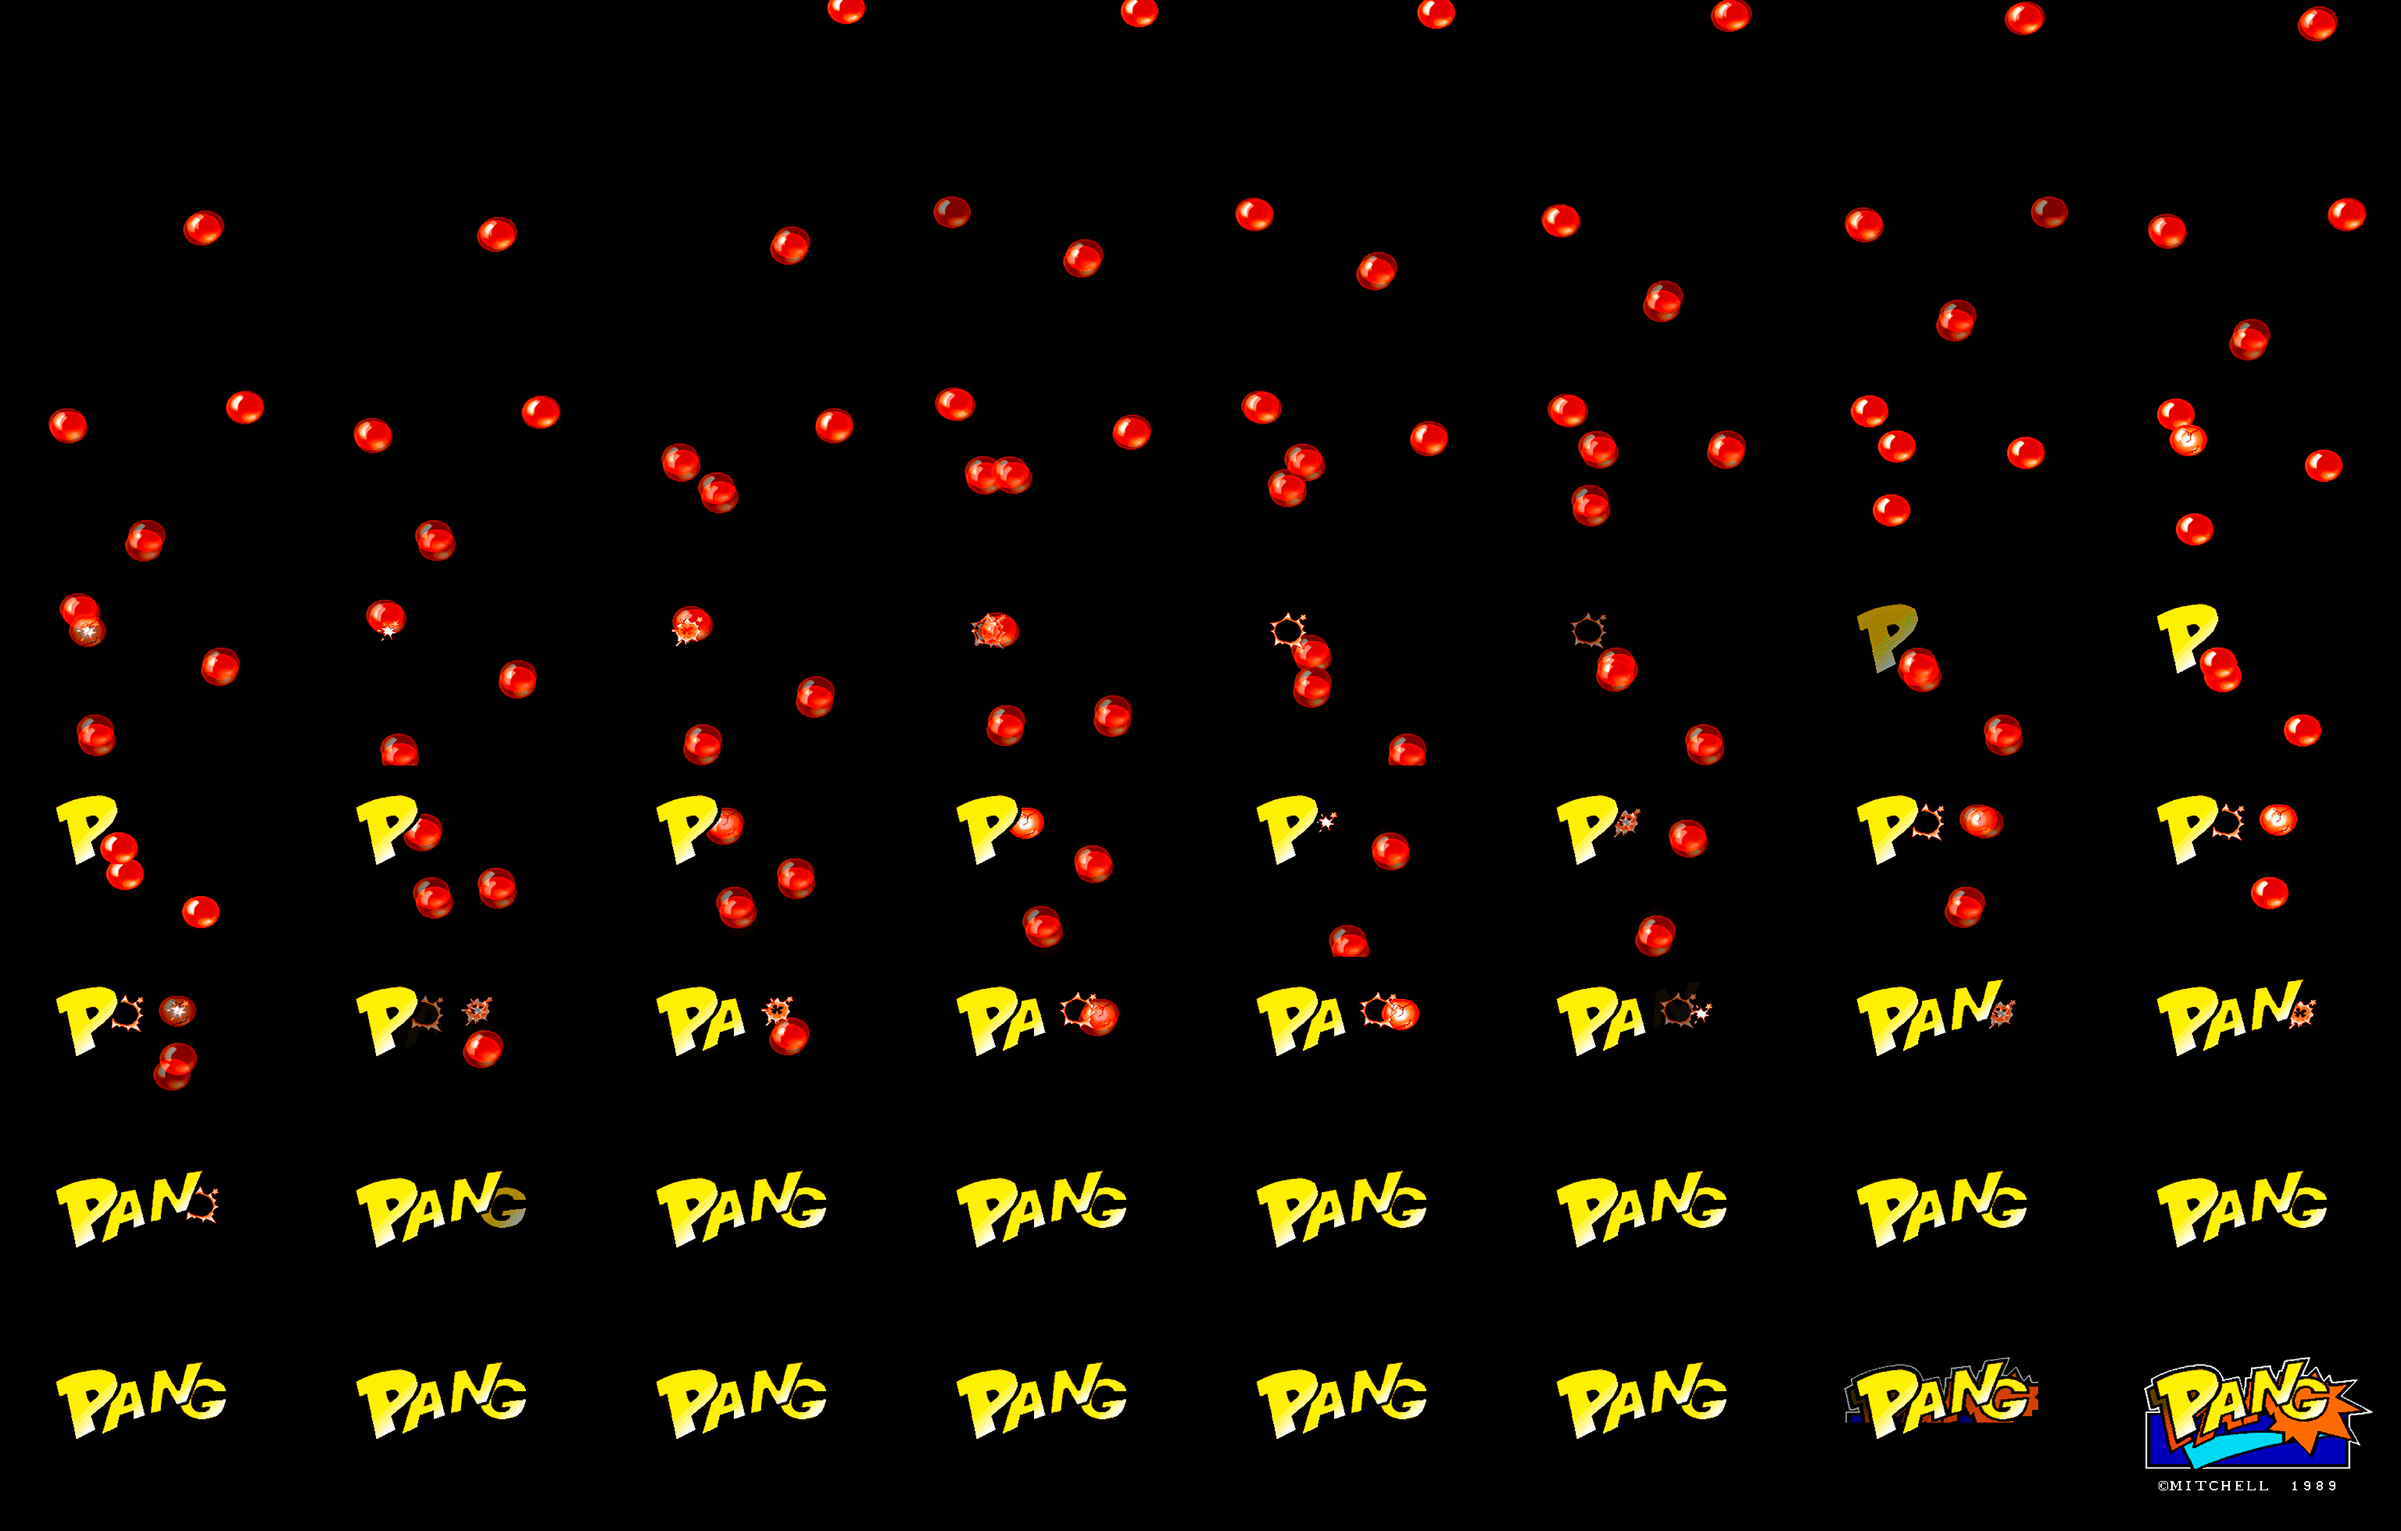
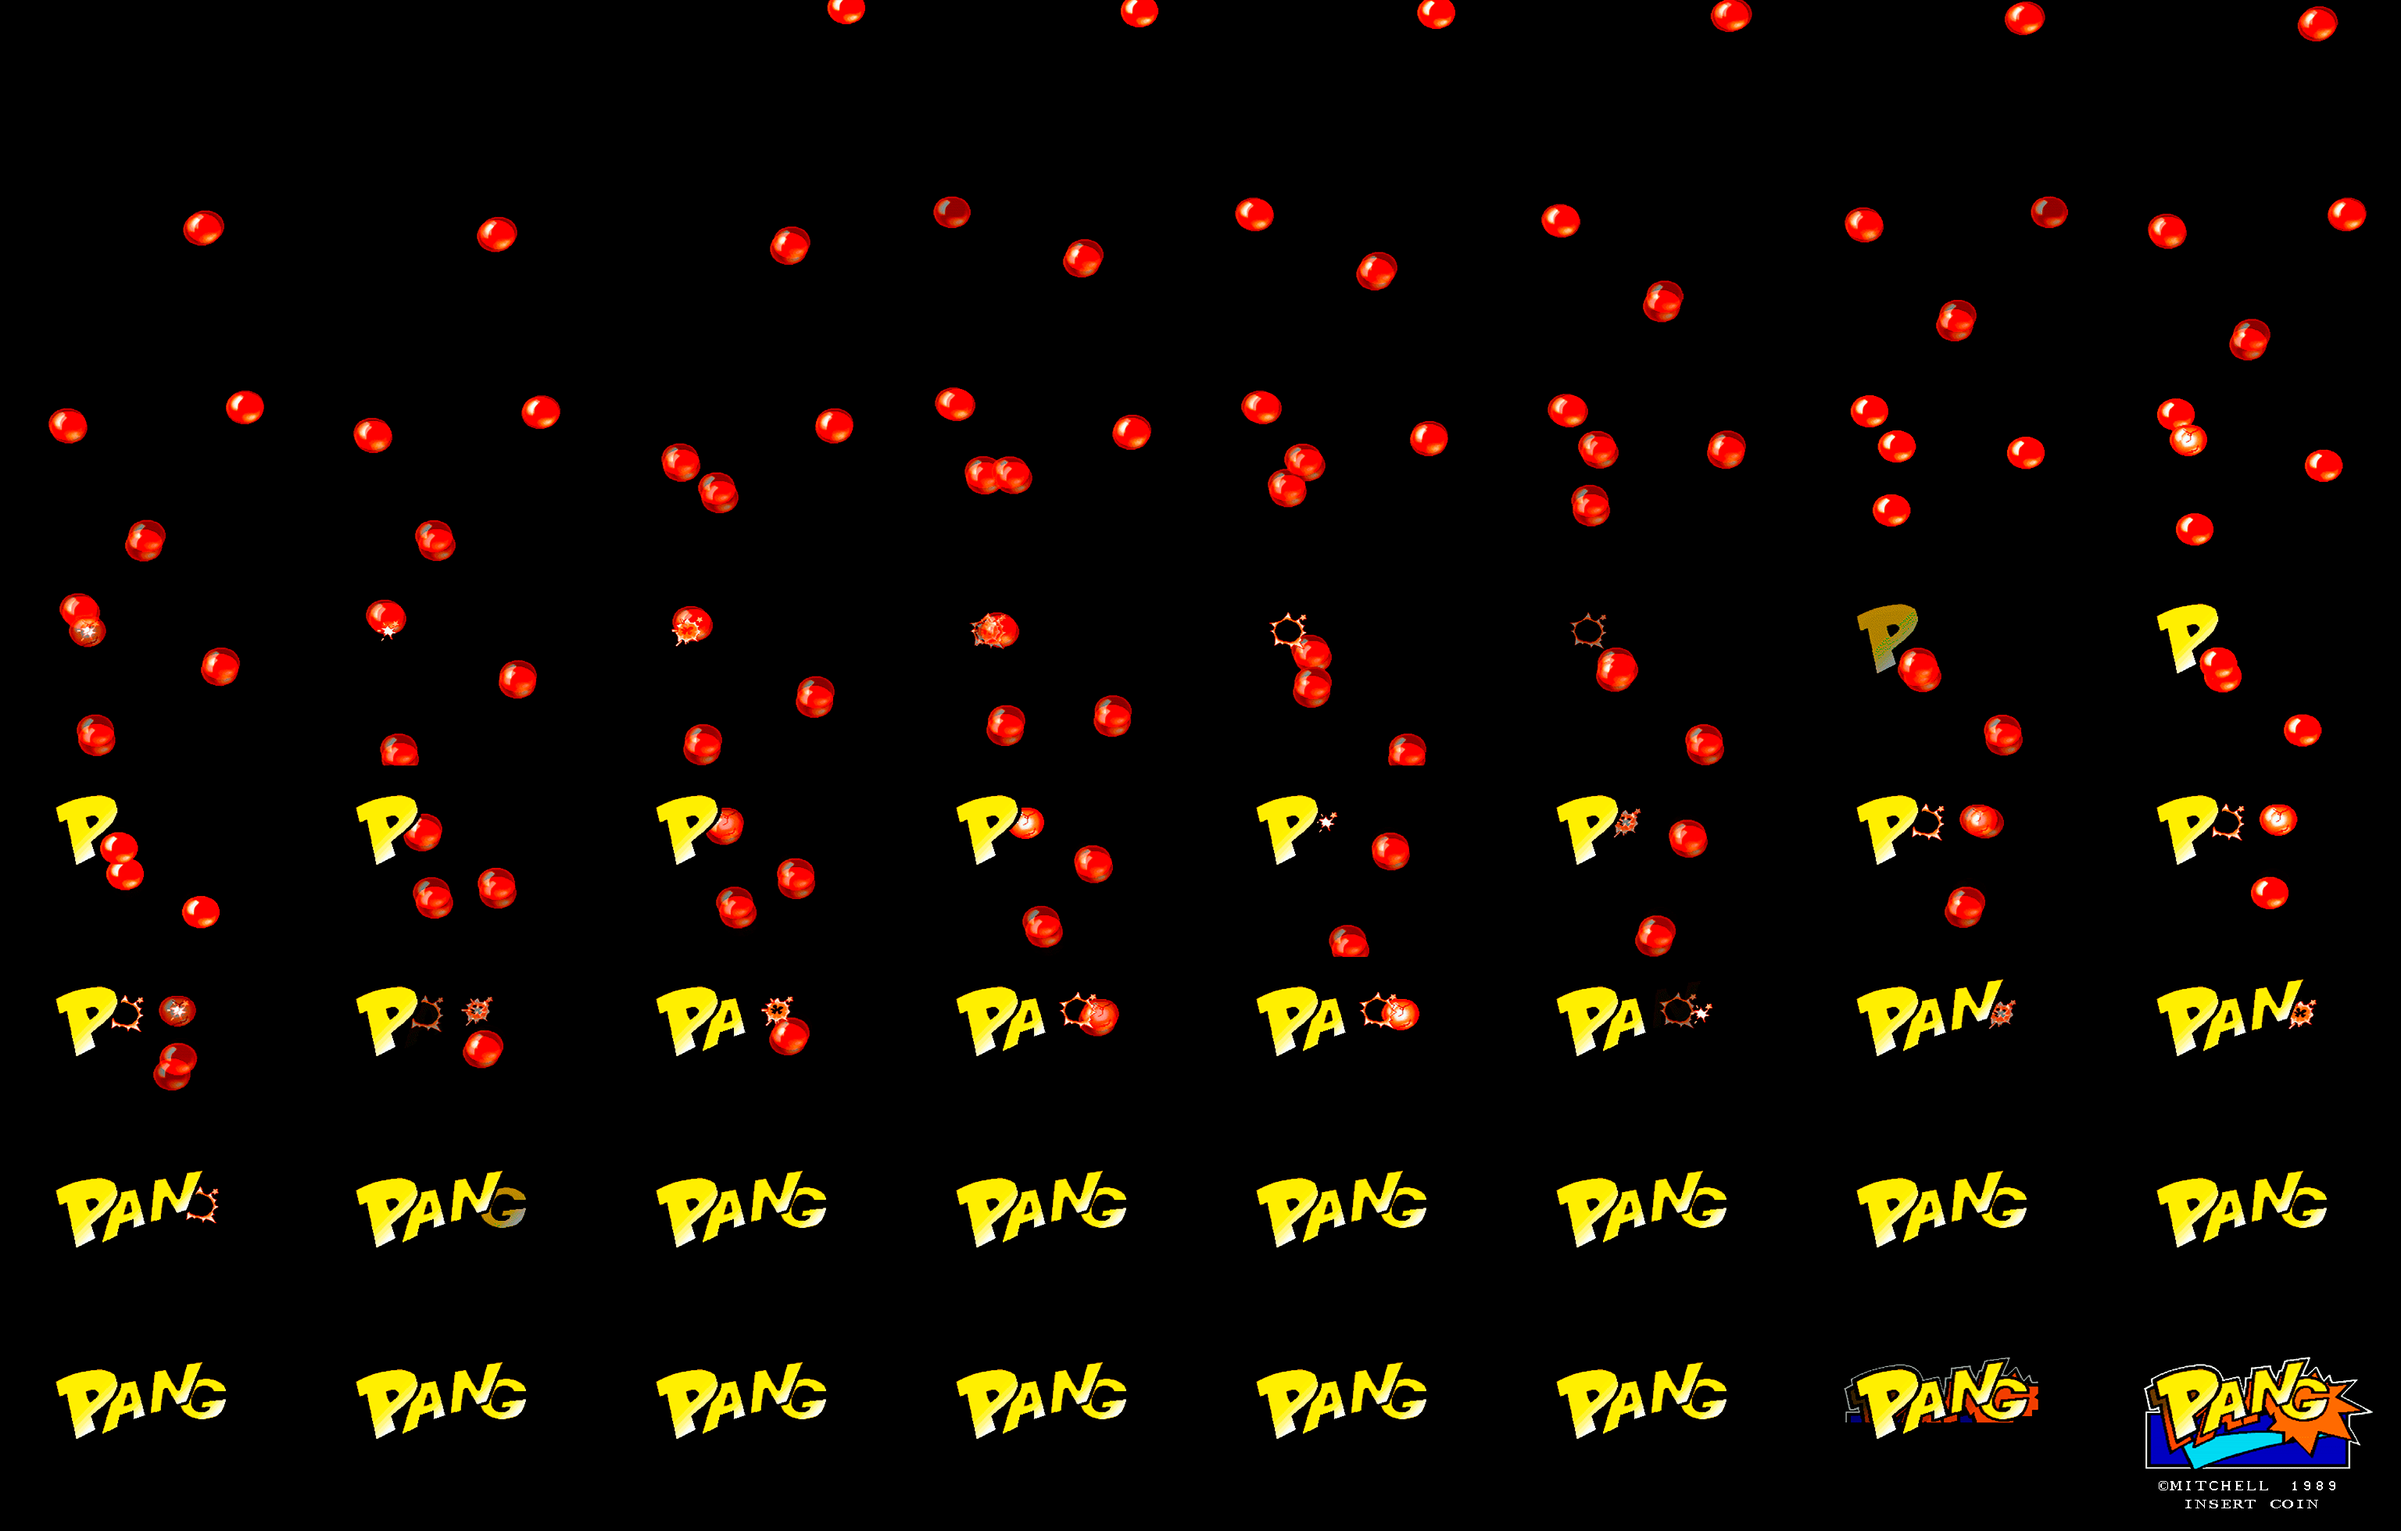
Intro scene insert coin added

diff --git a/Pang/Pang/Source/IntroScene.cpp b/Pang/Pang/Source/IntroScene.cpp
@@ -99,6 +99,10 @@ bool SceneIntro::Start()
 	++activeTextures; ++totalTextures;
 	bgTexture = App->textures->Load("Assets/UI/AnimationPangBalls.png");
 	++activeTextures; ++totalTextures;
+
+	coinTexture = App->textures->Load("Assets/UI/insertCoin.png");
+	++activeTextures; ++totalTextures;
+
 	intro_1 = App->textures->Load("Assets/UI/Intro_1.png");
 	++activeTextures; ++totalTextures;
 	intro_2 = App->textures->Load("Assets/UI/Intro_2.png");
@@ -126,7 +130,6 @@ bool SceneIntro::Start()
 	App->input->Enable();
 	//App->enemies->Disable();
 
-
 	return ret;
 }
 
@@ -139,6 +142,14 @@ update_status SceneIntro::Update()
 	}
 
 	if (mapBool) { countMap++; }
+
+	if (countdown == 0) {
+		timer--;
+	}
+
+	if (timer == 0) {
+		insertCoin++;
+	}
 
 	if (countMap % 60 == 0 && countdownMap > 0 && mapBool == true) {
 		App->audio->PlayFx(mapFx);
@@ -211,13 +222,15 @@ update_status SceneIntro::PostUpdate()
 	}
 
 	if (countdown == 0 && mapBool == false)
-	{
-		
+	{	
 		currentAnimation = &intro;
 		App->render->Blit(bgTexture, 0, 0, &(intro.GetCurrentFrame()), 0.2f);
 		//App->fonts->BlitText(90, 181, introIndex, "©MITCHELL");
 		//App->fonts->BlitText(240, 181, introIndex, "1989");
 
+		if (insertCoin % 60 == 0) {
+			App->render->Blit(coinTexture, 108, 202, NULL);
+		}
 	}
 	if (countdown == 1 && mapBool == false) {
 		intro.Reset();
@@ -253,6 +266,9 @@ bool SceneIntro::CleanUp()
 	--activeTextures; --totalTextures;
 
 	App->textures->Unload(selectTexture);
+	--activeTextures; --totalTextures;
+
+	App->textures->Unload(coinTexture);
 	--activeTextures; --totalTextures;
 
 	App->textures->Unload(mapTexture);

diff --git a/Pang/Pang/Source/IntroScene.h b/Pang/Pang/Source/IntroScene.h
@@ -42,6 +42,7 @@ public:
 	SDL_Texture* mapTexture = nullptr;
 	SDL_Texture* mapAnimTexture = nullptr;
 	SDL_Texture* selectTexture = nullptr;
+	SDL_Texture* coinTexture = nullptr;
 
 	uint introFx = 0;
 	uint mapFx = 0;
@@ -50,6 +51,9 @@ public:
 	int countMap = 0;
 	int countdownMap = 9;
 	
+	int insertCoin = 1;
+	int timer = 300;
+
 	bool mapBool = false;
 	bool stage1 = false;
 	bool stage2 = false;
